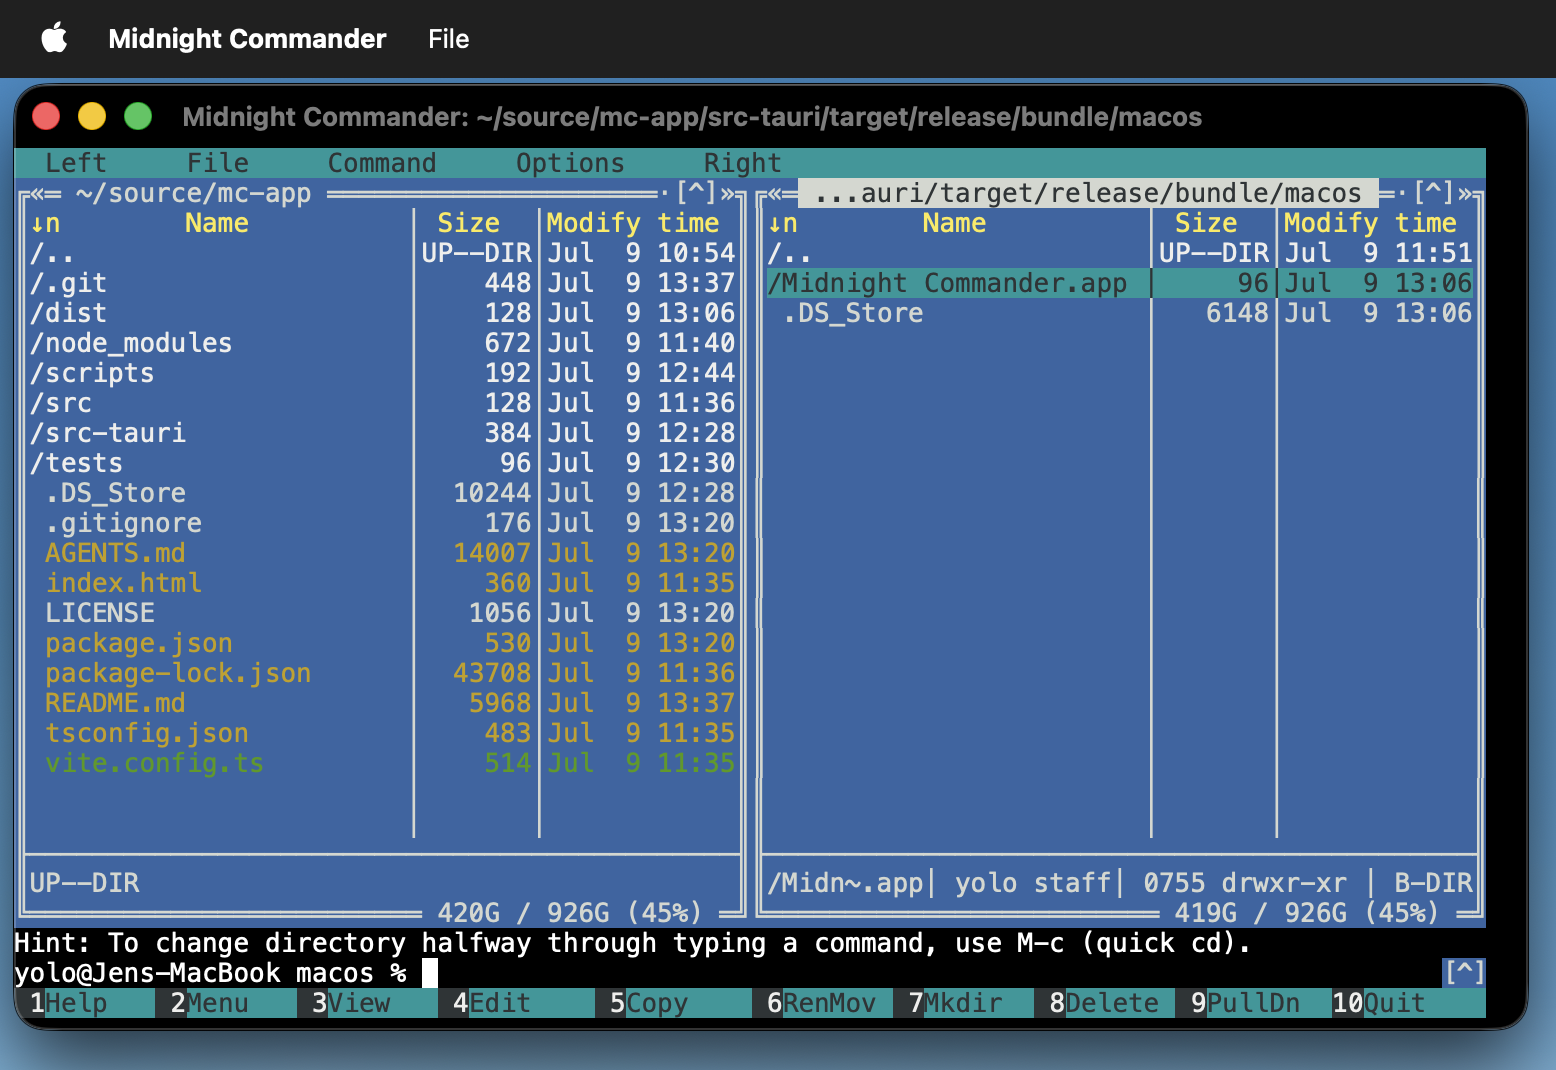
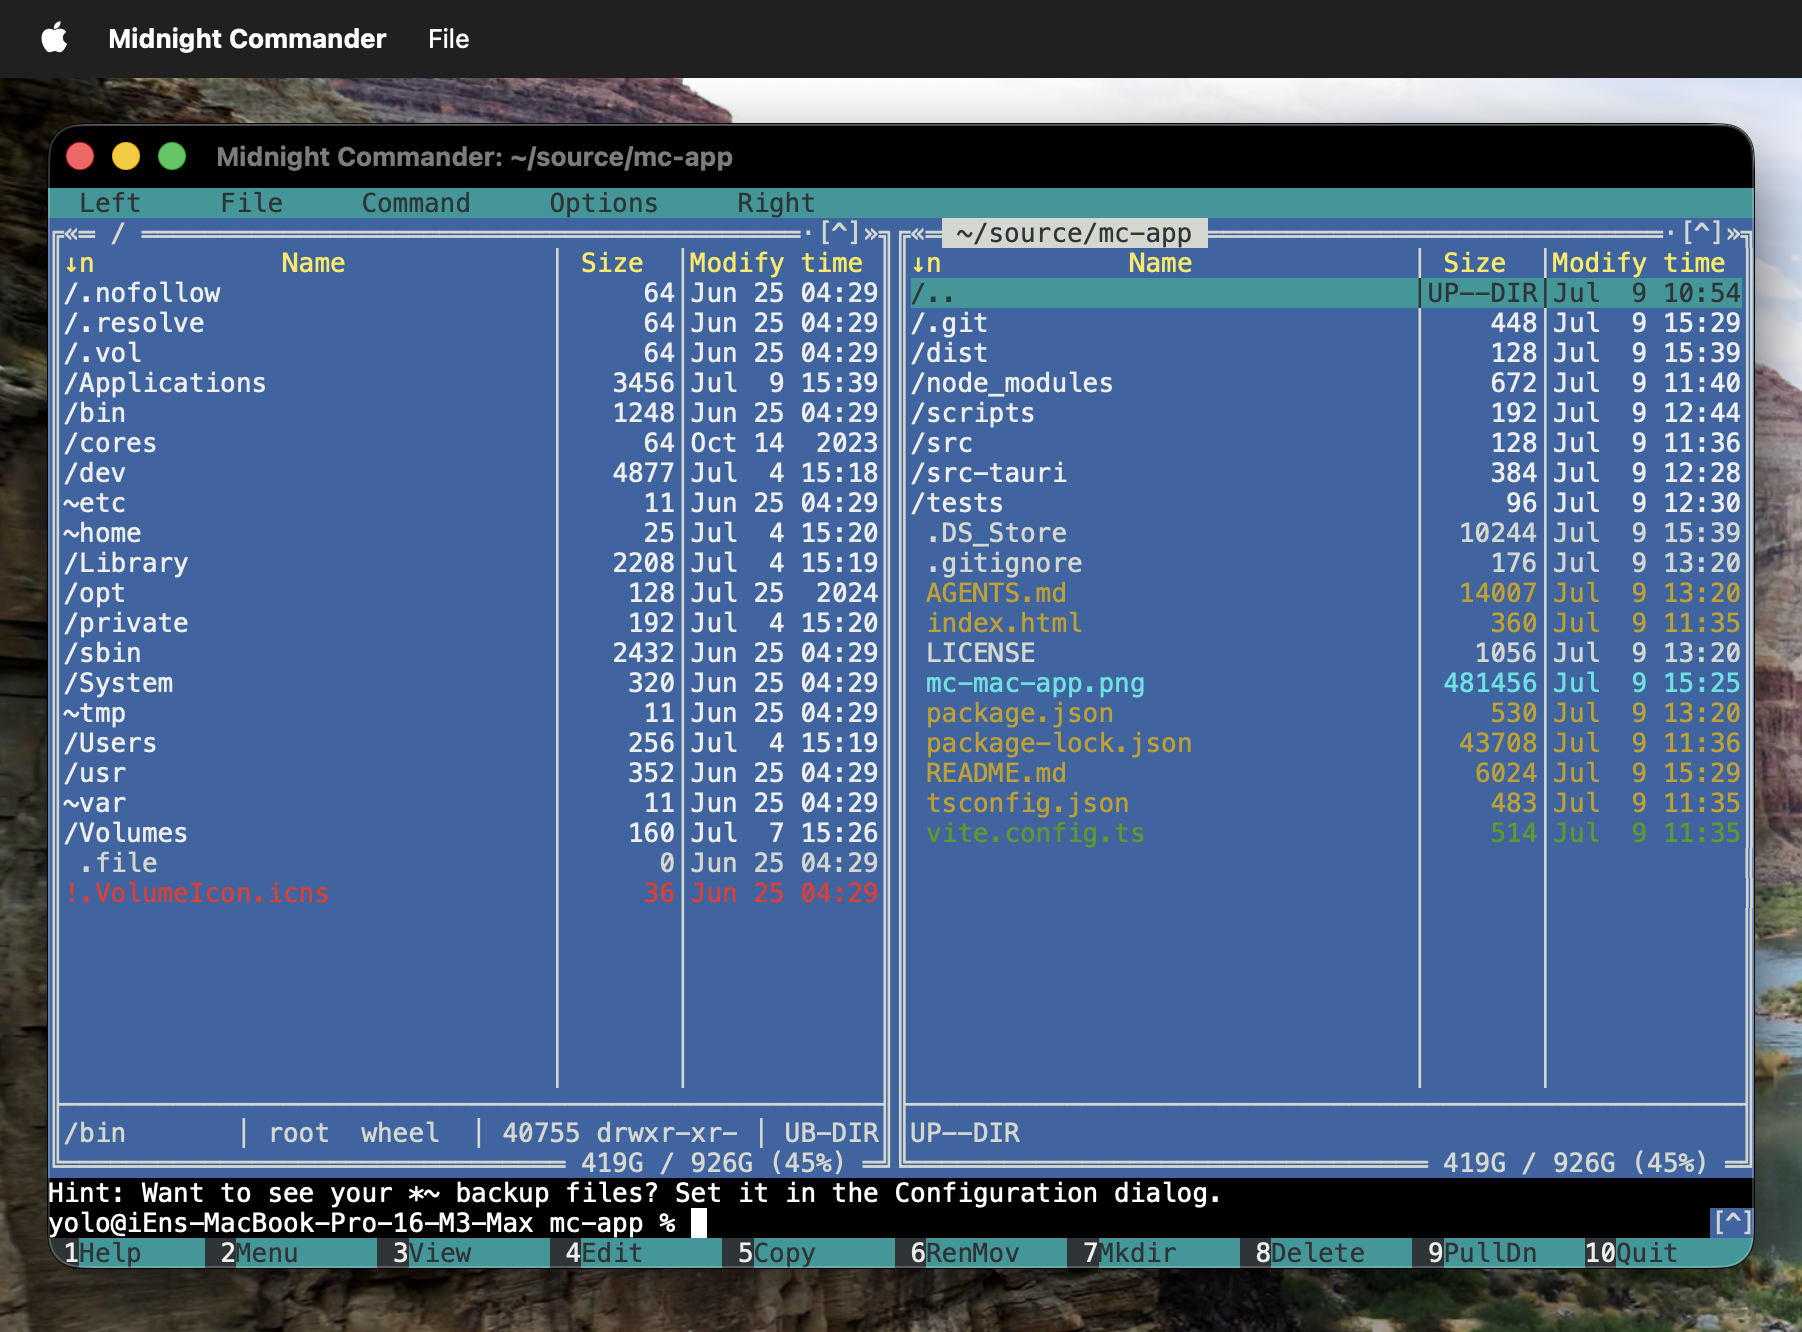
Fix extra black strip on right edge by removing scrollbar gutter
Set scrollback to 0 so FitAddon uses the full window width for mc, and
hide xterm's vertical scrollbar in CSS. Update the README screenshot.

diff --git a/src/styles.css b/src/styles.css
@@ -8,3 +8,8 @@ body,
   overflow: hidden;
   background-color: #000;
 }
+
+/* xterm reserves ~14px for a vertical scrollbar even when hidden. */
+.xterm .xterm-scrollable-element > .scrollbar {
+  display: none !important;
+}

diff --git a/src/main.ts b/src/main.ts
@@ -56,6 +56,8 @@ async function bootTerminal() {
     cursorBlink: true,
     fontFamily: "Menlo, Monaco, 'Courier New', monospace",
     fontSize: 13,
+    // mc is a fullscreen TUI; scrollback 0 stops FitAddon reserving ~14px for a scrollbar gutter.
+    scrollback: 0,
     theme: {
       background: "#000000",
     },